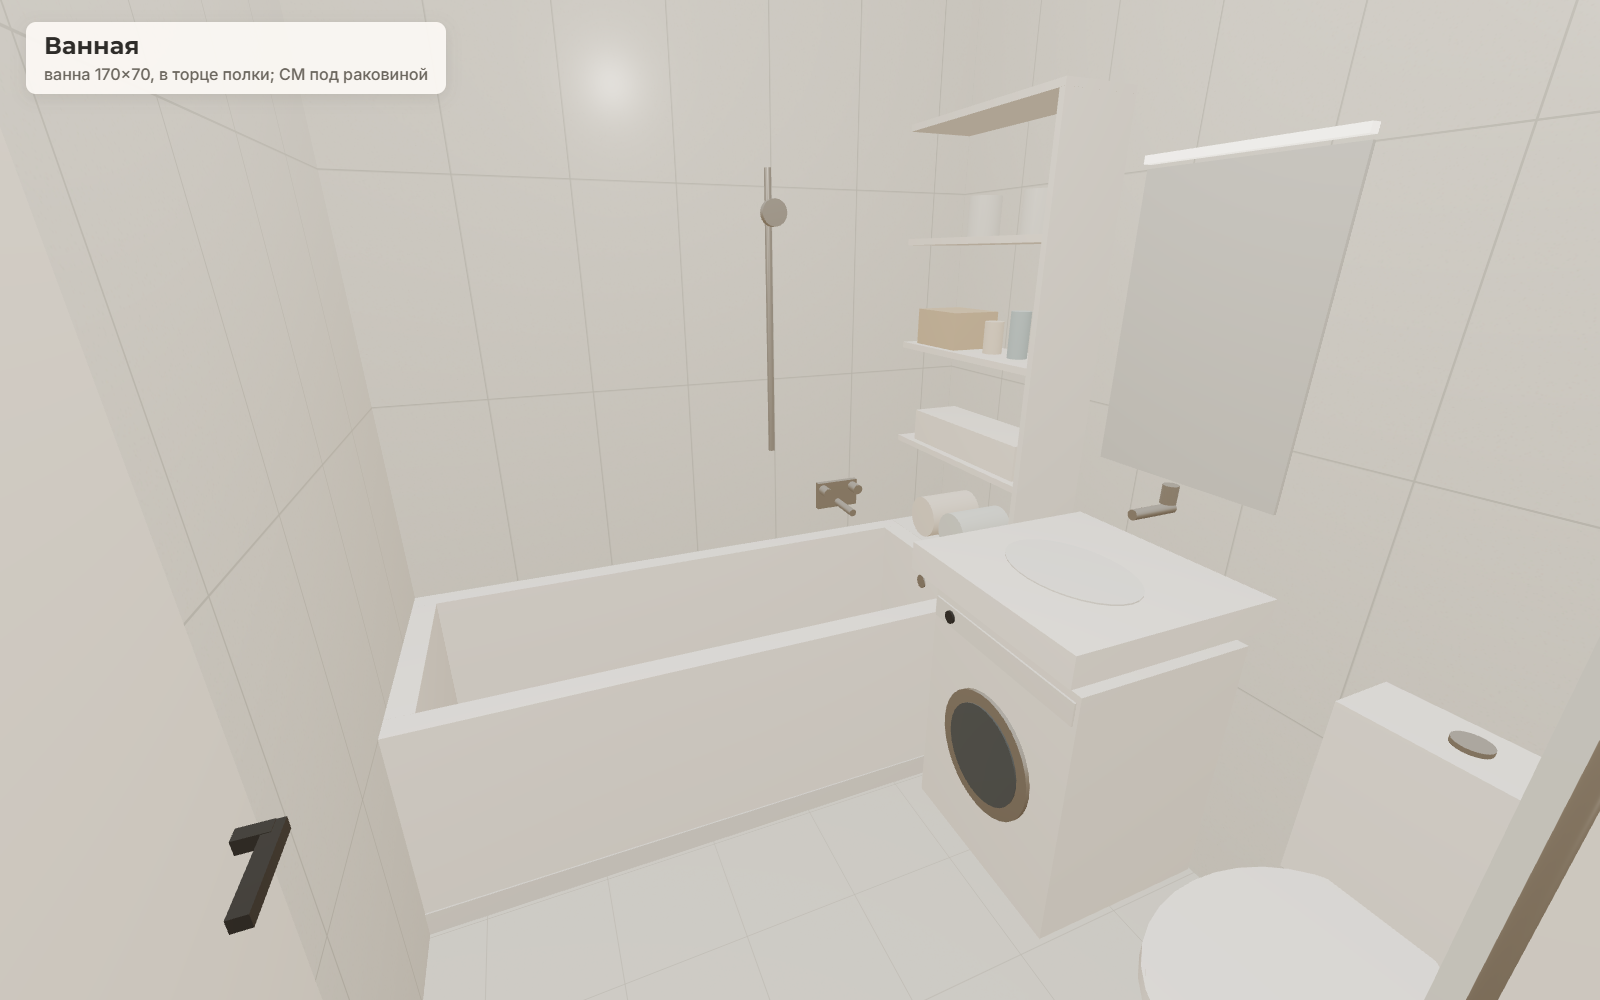
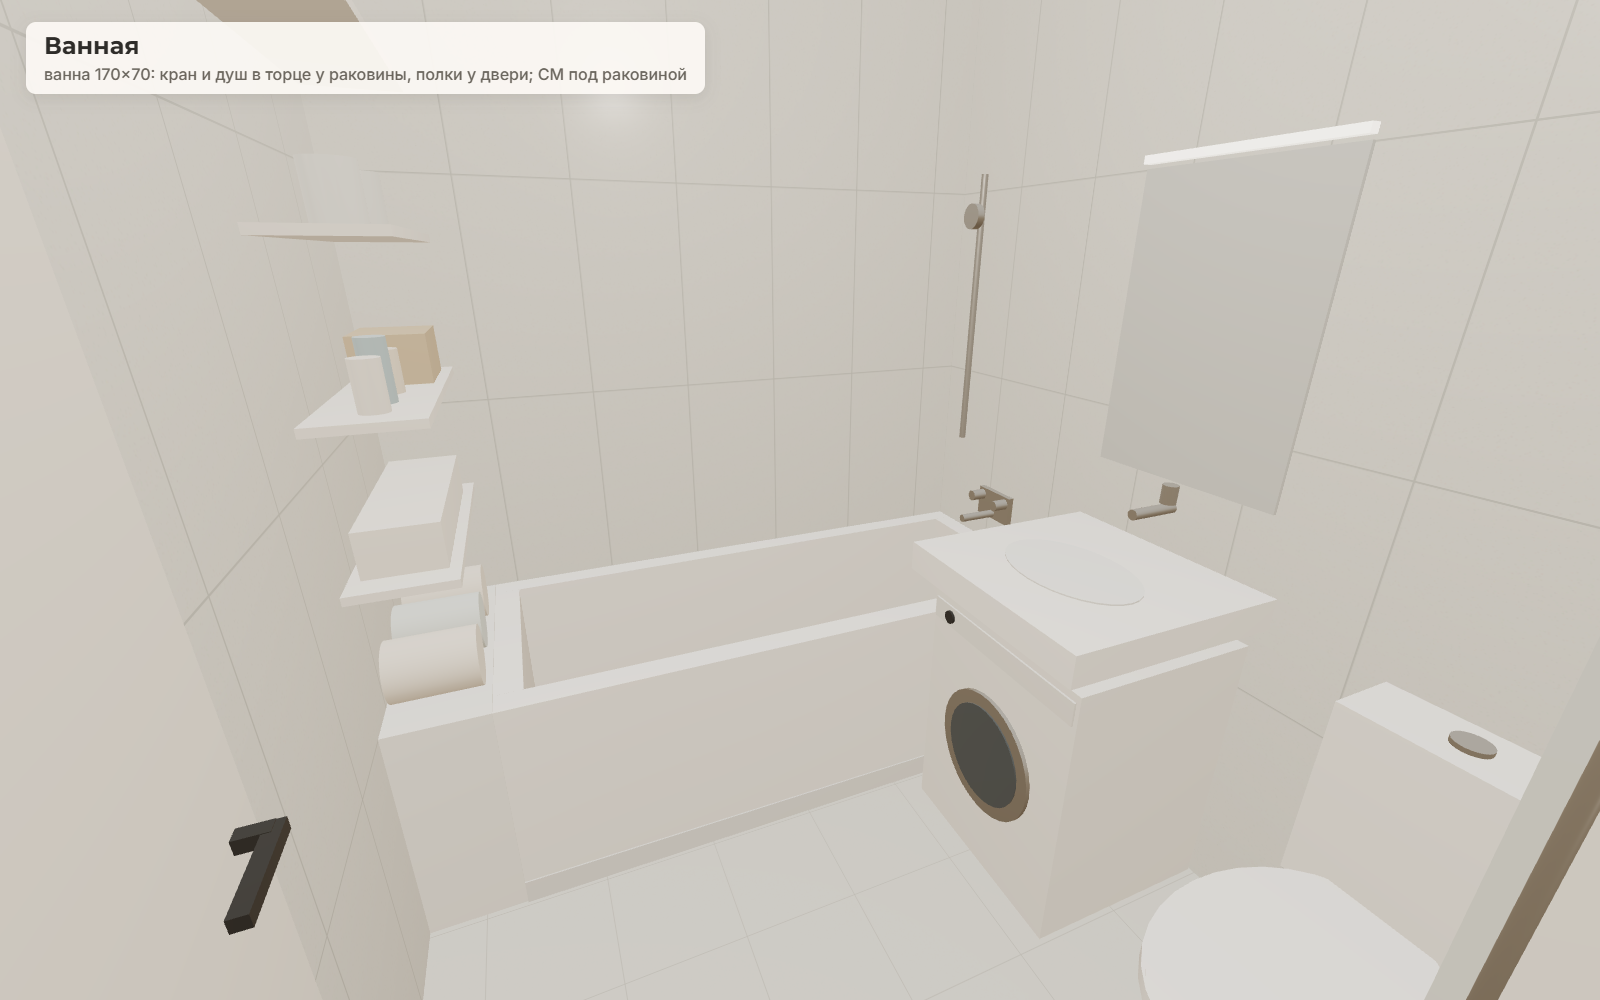
Ванная: кран и душ у раковины, полки у двери
Ванна сдвинута к стене с раковиной: смеситель с изливом и лейка на штанге
теперь на этом торце. Полки перенесены к другому торцу, со стороны двери,
и открыты в сторону ванны и комнаты. Обновлены 3D, план, электрика,
развёртка стены с раковиной, скриншоты и README.

diff --git a/3d.html b/3d.html
@@ -409,27 +409,26 @@ box(5.29,5.81,0.64,0.7,4.964,4.97,M('#dedfdc',0.4));cyl(5.74,0.67,4.962,0.018,0.
 box(5.25,5.85,0.78,0.86,4.9,5.5,mat.ceramic,{block:true});cyl(5.55,0.862,5.17,0.19,0.004,M('#e6ecee',0.15),{sz:0.7});
 cyl(5.55,0.98,5.42,0.014,0.14,mat.chrome,{rx:Math.PI/2});cyl(5.55,1.02,5.47,0.02,0.05,mat.chrome);
 box(5.3,5.8,1.05,1.8,5.485,5.495,mat.mirror,{cast:false,p:groups.hung});box(5.3,5.8,1.81,1.83,5.47,5.495,mat.led,{cast:false,p:groups.hung});
-// bathtub 170×70 along the far wall, with a screen; open shelves in the 23.5 cm left at its foot
-{const T=mat.ceramic,x1=5.88,x2=6.58,z1=3.565,z2=5.265,top=0.6,r=0.07,bot=0.2;
+// bathtub 170×70 along the far wall, with a screen; mixer and hand shower on its end wall by the sink
+{const T=mat.ceramic,x1=5.88,x2=6.58,z1=3.8,z2=5.5,top=0.6,r=0.07,bot=0.2;
  box(x1,x1+r,0,top,z1,z2,T);box(x2-r,x2,bot,top,z1,z2,T);
  box(x1+r,x2-r,bot,top,z1,z1+r,T);box(x1+r,x2-r,bot,top,z2-r,z2,T);
  box(x1+r,x2-r,0,bot,z1+r,z2-r,M('#dce8ee',0.12));
  box(x1-0.004,x1,0,0.07,z1,z2,M('#d9dcdd',0.5));
- cyl(6.23,bot+0.002,5.1,0.024,0.004,mat.chrome);cyl(6.23,0.5,z2-r-0.002,0.024,0.006,mat.chrome,{rx:Math.PI/2});
- // wall mixer with a spout at the foot end, hand shower on a slide bar
- box(6.555,6.58,0.7,0.8,4.93,5.09,mat.chrome);cyl(6.49,0.72,5.01,0.013,0.13,mat.chrome,{rz:Math.PI/2});
- [4.95,5.07].forEach(z=>cyl(6.53,0.775,z,0.018,0.05,mat.chrome,{rz:Math.PI/2}));
- cyl(6.56,1.4,4.75,0.011,0.9,mat.chrome,{p:groups.hung});cyl(6.51,1.72,4.75,0.04,0.025,mat.chrome,{rz:Math.PI/2,p:groups.hung});
- block(x1,x2,z1,5.5);}
-{const S2=M('#f4f2ee',0.45),tile=M('#eef0ef',0.55),x1=5.88,x2=6.58,z1=5.265,z2=5.5;
+ cyl(6.23,bot+0.002,5.32,0.024,0.004,mat.chrome);cyl(6.23,0.5,z2-r-0.002,0.024,0.006,mat.chrome,{rx:Math.PI/2});
+ box(6.15,6.31,0.7,0.8,5.475,5.5,mat.chrome);cyl(6.23,0.72,5.41,0.013,0.13,mat.chrome,{rx:Math.PI/2});
+ [6.17,6.29].forEach(x=>cyl(x,0.775,5.45,0.018,0.05,mat.chrome,{rx:Math.PI/2}));
+ cyl(6.45,1.4,5.48,0.011,0.9,mat.chrome,{p:groups.hung});cyl(6.45,1.72,5.45,0.04,0.025,mat.chrome,{rx:Math.PI/2,p:groups.hung});
+ block(x1,x2,3.565,5.5);}
+// open shelves in the 23.5 cm at the other end, by the door: a tiled base as high as the tub, wall-hung shelves above
+{const S2=M('#f4f2ee',0.45),tile=M('#eef0ef',0.55),x1=5.88,x2=6.58,z1=3.565,z2=3.8;
  box(x1,x2,0,0.6,z1,z2,tile);
- box(x1,x1+0.02,0.6,2.0,z1,z2,tile);box(x1,x2,1.98,2.0,z1,z2,tile,{p:groups.hung});
- [0.95,1.3,1.65].forEach(y=>box(x1+0.02,x2,y-0.02,y,z1+0.01,z2,S2));
- [[6.02,'#e6dccf'],[6.2,'#c9d6d6'],[6.38,'#e6dccf']].forEach(([x,c])=>cyl(x,0.68,5.38,0.075,0.2,M(c,0.95),{rx:Math.PI/2}));
- [[5.98,0.11,'#f0ece6'],[6.08,0.14,'#8fb0bf'],[6.2,0.1,'#e9d9c4']].forEach(([x,h,c])=>cyl(x,1.3+h/2,5.38,0.03,h,M(c,0.35)));
- box(6.3,6.52,1.3,1.42,5.3,5.47,M('#b89b78',0.9));
- box(5.95,6.5,0.95,1.06,5.3,5.47,M('#f3efe8',0.95));
- [6.05,6.3].forEach(x=>cyl(x,1.71,5.38,0.05,0.12,M('#dfe7e8',0.3)));}
+ [0.95,1.3,1.65].forEach(y=>box(x1,x2,y-0.02,y,z1,z2-0.01,S2));box(x1,x2,1.98,2.0,z1,z2-0.01,S2,{p:groups.hung});
+ [[6.02,'#e6dccf'],[6.2,'#c9d6d6'],[6.38,'#e6dccf']].forEach(([x,c])=>cyl(x,0.68,3.685,0.075,0.2,M(c,0.95),{rx:Math.PI/2}));
+ [[5.98,0.11,'#f0ece6'],[6.08,0.14,'#8fb0bf'],[6.2,0.1,'#e9d9c4']].forEach(([x,h,c])=>cyl(x,1.3+h/2,3.685,0.03,h,M(c,0.35)));
+ box(6.3,6.52,1.3,1.42,3.595,3.765,M('#b89b78',0.9));
+ box(5.95,6.5,0.95,1.06,3.595,3.765,M('#f3efe8',0.95));
+ [6.05,6.3].forEach(x=>cyl(x,1.71,3.685,0.05,0.12,M('#dfe7e8',0.3)));}
 // heated towel rail
 cyl(4.52,1.22,4.48,0.012,0.68,mat.chrome);cyl(4.52,1.22,4.82,0.012,0.68,mat.chrome);
 for(let y=0.92;y<1.56;y+=0.1)cyl(4.52,y,4.65,0.01,0.34,mat.chrome,{rx:Math.PI/2,seg:8});
@@ -473,7 +472,7 @@ const VIEWS={
   'spalnya':{name:'Спальня',sub:'кровать 160×200, рабочий стол у окна',mode:'walk',p:[4.15,2.95],t:[6.1,0.85,1.2],fov:70},
   'shkaf':{name:'Шкаф в спальне',sub:'у окна заглушка 24 см: крайняя дверь открывается на 90° мимо подоконника',mode:'walk',p:[4.8,2.95],t:[4.5,0.95,0.1],fov:70,flaps:{sd0:1}},
   'polki':{name:'Полки за дверью спальни',sub:'дверь закрыта; открытая дверь встаёт вдоль полок',mode:'walk',p:[4.72,2.78],t:[3.9,1.15,2.35],fov:78,doors:{bed:0}},
-  'vannaya':{name:'Ванная',sub:'ванна 170×70, в торце полки; СМ под раковиной',mode:'walk',p:[4.43,3.97],t:[6.3,0.85,4.75],fov:74},
+  'vannaya':{name:'Ванная',sub:'ванна 170×70: кран и душ в торце у раковины, полки у двери; СМ под раковиной',mode:'walk',p:[4.43,3.97],t:[6.3,0.85,4.75],fov:74},
 };
 const CHIPS=[['vhod','Вход'],['prihozhaya','Прихожая'],['gostinaya','Гостиная'],['kuhnya','Кухня'],['spalnya','Спальня'],['shkaf','Шкаф у окна'],['polki','Полки за дверью'],['vannaya','Ванная'],['sverhu','Сверху']];
 const LABELS=[['Гостиная',2.55,1.3,1.45],['Кухня',3.0,1.3,4.3],['Прихожая',1.1,1.3,4.25],['Спальня',4.75,1.3,0.9],['Ванная',5.25,1.3,4.25],['Балкон',2.4,1.1,-1.0]];

diff --git a/plan.html b/plan.html
@@ -400,27 +400,26 @@ box(5.29,5.81,0.64,0.7,4.964,4.97,M('#dedfdc',0.4));cyl(5.74,0.67,4.962,0.018,0.
 box(5.25,5.85,0.78,0.86,4.9,5.5,mat.ceramic,{block:true});cyl(5.55,0.862,5.17,0.19,0.004,M('#e6ecee',0.15),{sz:0.7});
 cyl(5.55,0.98,5.42,0.014,0.14,mat.chrome,{rx:Math.PI/2});cyl(5.55,1.02,5.47,0.02,0.05,mat.chrome);
 box(5.3,5.8,1.05,1.8,5.485,5.495,mat.mirror,{cast:false,p:groups.hung});box(5.3,5.8,1.81,1.83,5.47,5.495,mat.led,{cast:false,p:groups.hung});
-// bathtub 170×70 along the far wall, with a screen; open shelves in the 23.5 cm left at its foot
-{const T=mat.ceramic,x1=5.88,x2=6.58,z1=3.565,z2=5.265,top=0.6,r=0.07,bot=0.2;
+// bathtub 170×70 along the far wall, with a screen; mixer and hand shower on its end wall by the sink
+{const T=mat.ceramic,x1=5.88,x2=6.58,z1=3.8,z2=5.5,top=0.6,r=0.07,bot=0.2;
  box(x1,x1+r,0,top,z1,z2,T);box(x2-r,x2,bot,top,z1,z2,T);
  box(x1+r,x2-r,bot,top,z1,z1+r,T);box(x1+r,x2-r,bot,top,z2-r,z2,T);
  box(x1+r,x2-r,0,bot,z1+r,z2-r,M('#dce8ee',0.12));
  box(x1-0.004,x1,0,0.07,z1,z2,M('#d9dcdd',0.5));
- cyl(6.23,bot+0.002,5.1,0.024,0.004,mat.chrome);cyl(6.23,0.5,z2-r-0.002,0.024,0.006,mat.chrome,{rx:Math.PI/2});
- // wall mixer with a spout at the foot end, hand shower on a slide bar
- box(6.555,6.58,0.7,0.8,4.93,5.09,mat.chrome);cyl(6.49,0.72,5.01,0.013,0.13,mat.chrome,{rz:Math.PI/2});
- [4.95,5.07].forEach(z=>cyl(6.53,0.775,z,0.018,0.05,mat.chrome,{rz:Math.PI/2}));
- cyl(6.56,1.4,4.75,0.011,0.9,mat.chrome,{p:groups.hung});cyl(6.51,1.72,4.75,0.04,0.025,mat.chrome,{rz:Math.PI/2,p:groups.hung});
- block(x1,x2,z1,5.5);}
-{const S2=M('#f4f2ee',0.45),tile=M('#eef0ef',0.55),x1=5.88,x2=6.58,z1=5.265,z2=5.5;
+ cyl(6.23,bot+0.002,5.32,0.024,0.004,mat.chrome);cyl(6.23,0.5,z2-r-0.002,0.024,0.006,mat.chrome,{rx:Math.PI/2});
+ box(6.15,6.31,0.7,0.8,5.475,5.5,mat.chrome);cyl(6.23,0.72,5.41,0.013,0.13,mat.chrome,{rx:Math.PI/2});
+ [6.17,6.29].forEach(x=>cyl(x,0.775,5.45,0.018,0.05,mat.chrome,{rx:Math.PI/2}));
+ cyl(6.45,1.4,5.48,0.011,0.9,mat.chrome,{p:groups.hung});cyl(6.45,1.72,5.45,0.04,0.025,mat.chrome,{rx:Math.PI/2,p:groups.hung});
+ block(x1,x2,3.565,5.5);}
+// open shelves in the 23.5 cm at the other end, by the door: a tiled base as high as the tub, wall-hung shelves above
+{const S2=M('#f4f2ee',0.45),tile=M('#eef0ef',0.55),x1=5.88,x2=6.58,z1=3.565,z2=3.8;
  box(x1,x2,0,0.6,z1,z2,tile);
- box(x1,x1+0.02,0.6,2.0,z1,z2,tile);box(x1,x2,1.98,2.0,z1,z2,tile,{p:groups.hung});
- [0.95,1.3,1.65].forEach(y=>box(x1+0.02,x2,y-0.02,y,z1+0.01,z2,S2));
- [[6.02,'#e6dccf'],[6.2,'#c9d6d6'],[6.38,'#e6dccf']].forEach(([x,c])=>cyl(x,0.68,5.38,0.075,0.2,M(c,0.95),{rx:Math.PI/2}));
- [[5.98,0.11,'#f0ece6'],[6.08,0.14,'#8fb0bf'],[6.2,0.1,'#e9d9c4']].forEach(([x,h,c])=>cyl(x,1.3+h/2,5.38,0.03,h,M(c,0.35)));
- box(6.3,6.52,1.3,1.42,5.3,5.47,M('#b89b78',0.9));
- box(5.95,6.5,0.95,1.06,5.3,5.47,M('#f3efe8',0.95));
- [6.05,6.3].forEach(x=>cyl(x,1.71,5.38,0.05,0.12,M('#dfe7e8',0.3)));}
+ [0.95,1.3,1.65].forEach(y=>box(x1,x2,y-0.02,y,z1,z2-0.01,S2));box(x1,x2,1.98,2.0,z1,z2-0.01,S2,{p:groups.hung});
+ [[6.02,'#e6dccf'],[6.2,'#c9d6d6'],[6.38,'#e6dccf']].forEach(([x,c])=>cyl(x,0.68,3.685,0.075,0.2,M(c,0.95),{rx:Math.PI/2}));
+ [[5.98,0.11,'#f0ece6'],[6.08,0.14,'#8fb0bf'],[6.2,0.1,'#e9d9c4']].forEach(([x,h,c])=>cyl(x,1.3+h/2,3.685,0.03,h,M(c,0.35)));
+ box(6.3,6.52,1.3,1.42,3.595,3.765,M('#b89b78',0.9));
+ box(5.95,6.5,0.95,1.06,3.595,3.765,M('#f3efe8',0.95));
+ [6.05,6.3].forEach(x=>cyl(x,1.71,3.685,0.05,0.12,M('#dfe7e8',0.3)));}
 // heated towel rail
 cyl(4.52,1.22,4.48,0.012,0.68,mat.chrome);cyl(4.52,1.22,4.82,0.012,0.68,mat.chrome);
 for(let y=0.92;y<1.56;y+=0.1)cyl(4.52,y,4.65,0.01,0.34,mat.chrome,{rx:Math.PI/2,seg:8});

diff --git a/README.md b/README.md
@@ -27,7 +27,7 @@
 - Между гостиной и кухней пока свободно: обеденный стол, стулья и светильник над ними подберём позже.
 - Прихожая: у входа слева открытая ниша 70 см — внизу тумба, выше крючки, наверху антресоль. Дальше шкаф 60×180 на четыре дверки, третья с зеркалом; в секции у ниши — щиток с автоматами.
 - Спальня: шкаф 60×200. У окна неподвижная заглушка 24 см, потому что подоконник выступает на 20 см: так крайняя дверь открывается на 90° мимо него. Двери 38+38 и 50+50 см. Дверь в спальню открывается к шкафу, за ней полки со срезом под 45°.
-- Ванная: дверь открывается внутрь к стене, стиральная машина под раковиной, ванна 170×70 вдоль дальней стены. В оставшиеся 23 см у её торца — открытые полки, а снизу, до высоты ванны, короб под трубы.
+- Ванная: дверь открывается внутрь к стене, стиральная машина под раковиной, ванна 170×70 вдоль дальней стены. Кран с изливом и душ на штанге — на торцевой стене у раковины. В оставшиеся 23 см у другого торца, со стороны двери, — открытые полки над коробом высотой с ванну.
 
 Мебель условная: размеры и места по плану, без конкретных моделей.
 
